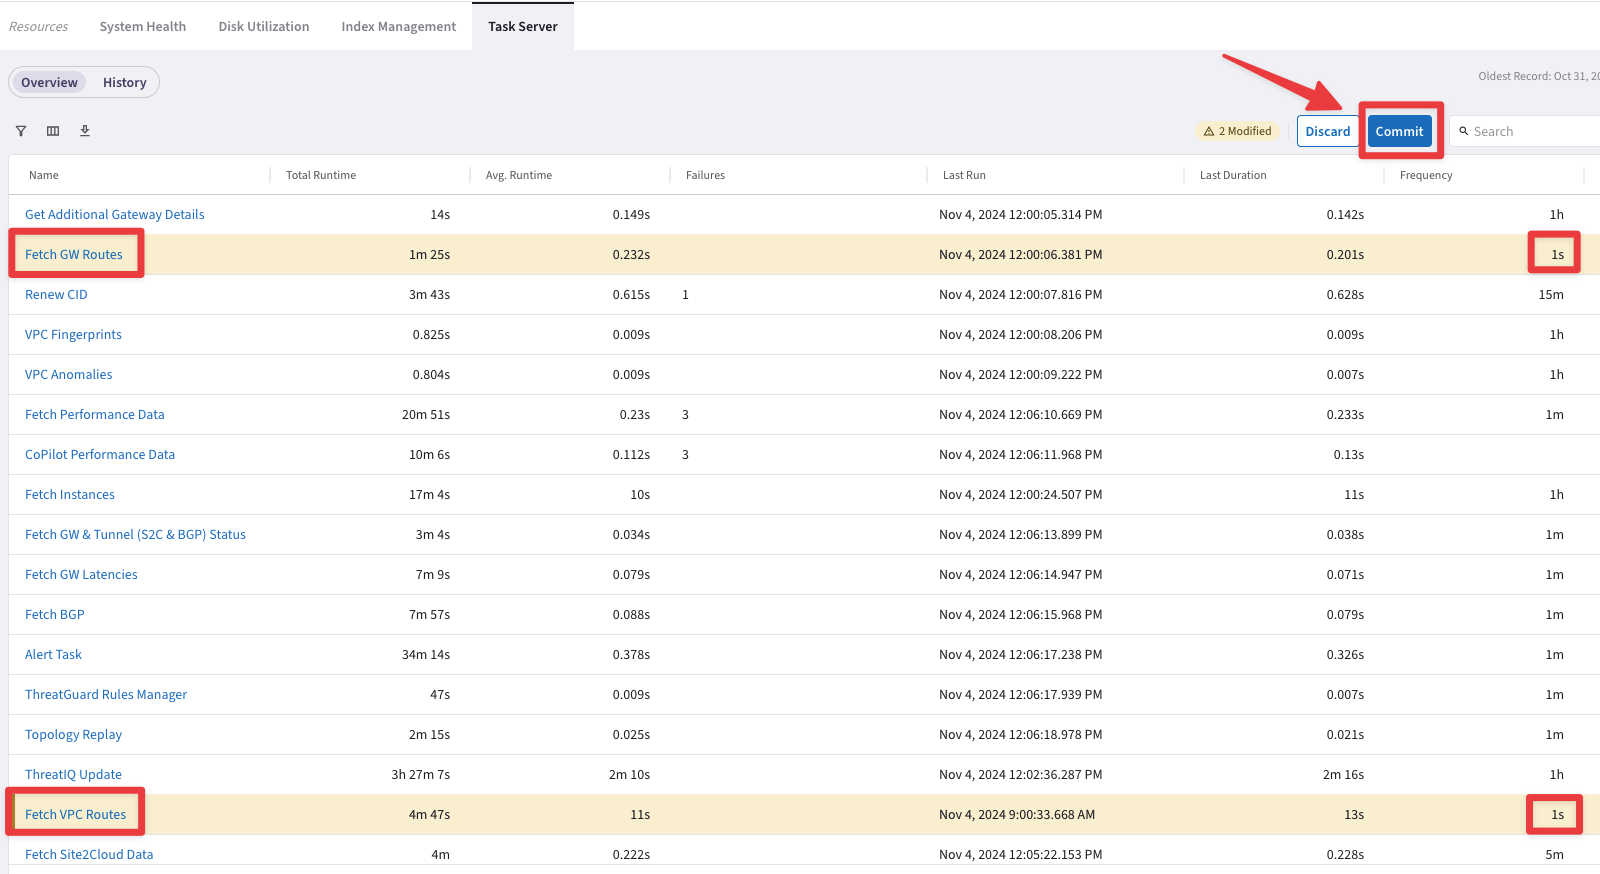
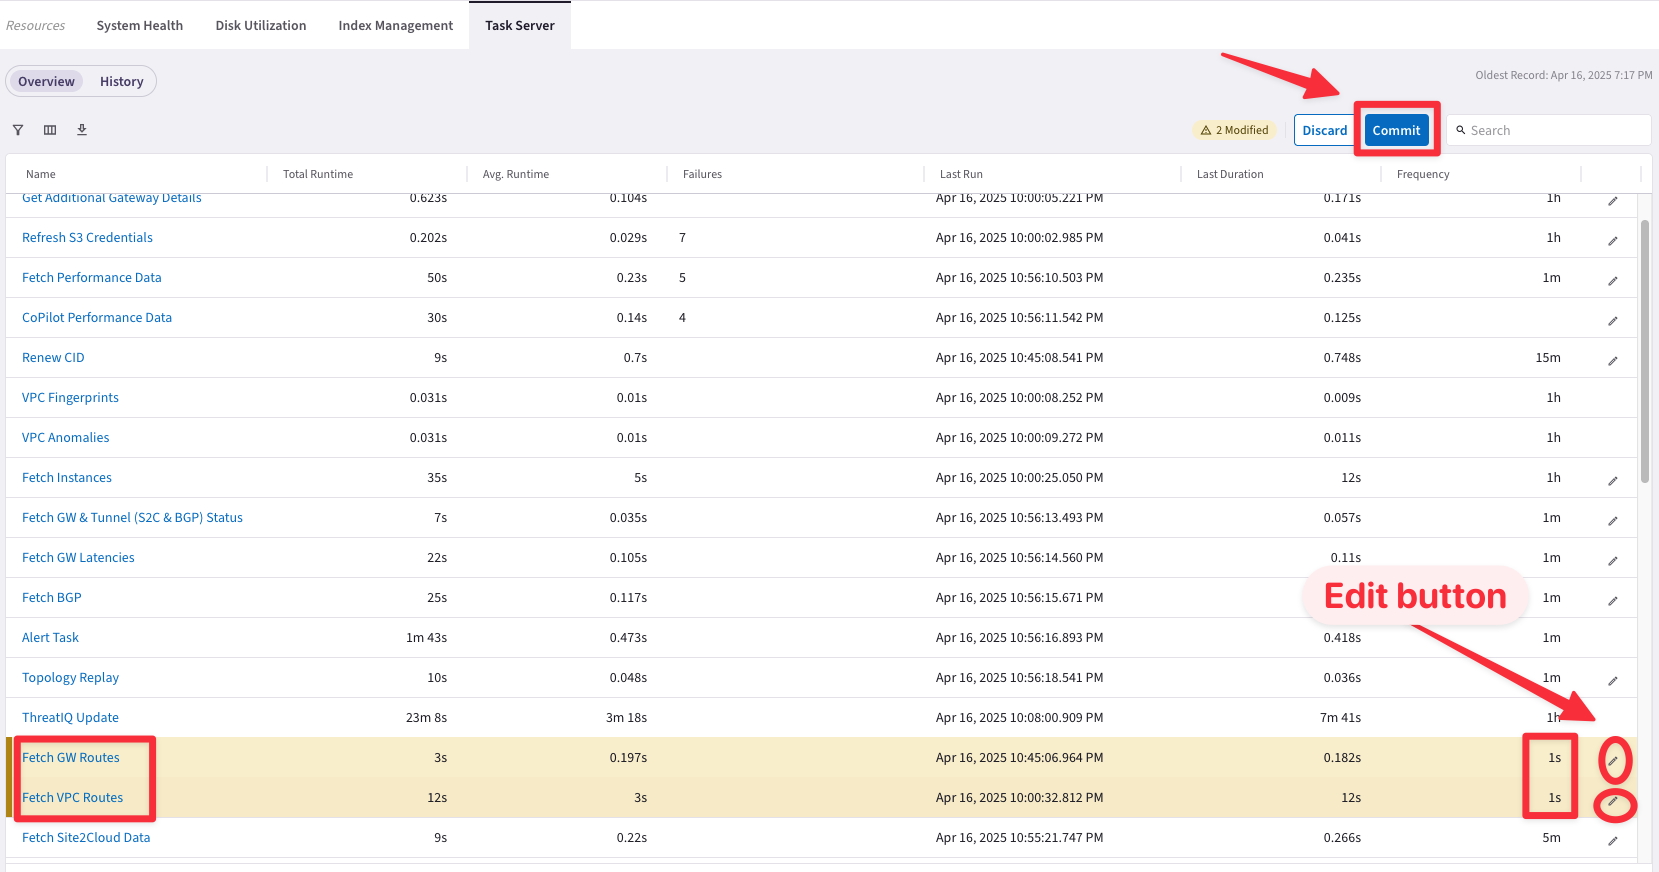
update for backbone

diff --git a/ace_backbone/docs/backbone.md b/ace_backbone/docs/backbone.md
@@ -2,28 +2,27 @@
 
 ## Scenario
 
-ABC Healthcare (a fictitious company), a leading healthcare provider, operates solely within the **Azure** cloud environment. The company decided expaning their cloud infrastructure also within AWS, however, they are facing cloud skills gap, because they do not have experties in AWS yet. Moreover, the company is heavily using the native CSP transit solutions (e.g. Azure Route Server).
+ABC Healthcare, a leading healthcare provider, operates exclusively within the **Azure** cloud environment. The company has decided to expand its cloud infrastructure to include AWS; however, it is facing a skills gap, as it lacks expertise in AWS. Additionally, ABC Healthcare heavily relies on native cloud service provider (CSP) transit solutions, such as Azure Route Server.
 
 ## Lab Objective
 
-You, the newly appointed solutions architect, have been assigned the following task:
+As the newly appointed solutions architect, you have been assigned the following tasks:
 
-- Create a **_`multicloud backbone architecture`_** that works in every cloud.
-- The solution should also provide **_`hybrid connectivity`_** towards the Data Center.
+- Design a **_`multicloud backbone architecture`_** that operates seamlessly across all cloud platforms.
+
+- Ensure the solution provides **_`hybrid connectivity`_** to the data center.
 
 ```{important}
-**Azure Route Server** does not natively sypport connectivity to other Cloud Providers.
-
-Aviatrix supports `Multicloud Transit`.
+**Azure Route Server** does not natively support connectivity to other cloud providers, whereas Aviatrix supports `Multicloud Transit`.
 ```
 
 ## Initial Set-up
 
-1- Both the `Aviatrix Controller` and the `Aviatrix CoPilot` got already deployed in AWS, inside a dedicated MGMT VPC.
+1- Both the `Aviatrix Controller` and the `Aviatrix CoPilot` have already been deployed in AWS, within a dedicated _management_ VPC.
 
-2- A pair of `Transit Gateways` got also deployed in Azure and attached to the existing **Azure Route Server**.
+2- A pair of `Transit Gateways` has also been deployed in Azure and connected to the existing **Azure Route Server**.
 
-3- An `Aviatrix Secure Edge` got already deployed inside the on-prem Data Center.
+3- An `Aviatrix Secure Edge` has already been deployed in the on-premises data center.
 
 ```{figure} images/backbone-initial-topology.png
 ---
@@ -88,13 +87,17 @@ Password:
 
 ## LAB Pre-Req
 
-Before starting building your backbone infrastructure, change the following **Fetch Timers** to their lowest value.
+Before building your backbone infrastructure, adjust the following **Fetch Timers** to their lowest values.
 
 ```{hint}
 Go to **CoPilot > Settings > Resources > Task Server**
 ```
 
-Ensure `Fetch GW Routes` and `Fetch VPC Routes` intervals are set to **“1 Second”** each and then click on **SAVE**.
+Ensure that the `Fetch GW Routes` and `Fetch VPC Routes` intervals are set to **“1 Second”** each, then click **SAVE**.
+
+```{hint}
+Click the _pencil_ icon to edit the timers."
+```
 
 ```{figure} images/backbone-tasks.png
 ---
@@ -107,12 +110,12 @@ Initial Topology
 Do not forget to click on the **COMMIT** button!
 
 ```{caution}
-These are very aggressive settings. In a Production environment, you should not set these intervals that frequently!
+These settings are quite aggressive. In a production environment, you should avoid setting these intervals so frequently!
 ```
 
 ## Task #1: Create an AWS TGW using the CoPilot
 
-The Copilot provides an `AWS TGW (Transit Gateway) Network Orchestration` service, that allows to deploy the AWS TGW, avoiding to use the AWS Console.
+The CoPilot offers an `AWS TGW (Transit Gateway) Network Orchestration` service that enables the deployment of AWS TGW without the need to use the AWS Console.
 
 ```{figure} images/backbone-tgw01.png
 ---
@@ -132,13 +135,13 @@ align: center
 AWS TGW section on the CoPilot
 ```
 
-Ensure these parameters are entered in the pop-up window `"Create AWS TGW"`.
+Make sure to enter these parameters in the pop-up window titled `"Create AWS TGW"`.
 
 - **Name:** <span style='color:#479608'>AWS-NVirginia-TGW</span>
 - **Cloud:** <span style='color:#479608'>AWS (Standard)</span>
 - **Account:** <span style='color:#479608'>aws-account </span>
 - **Region:** <span style='color:#479608'>us-east-1 (N. Virginia)</span>
-- **AWS Side SAS Number:** <span style='color:#479608'>64512</span>
+- **AWS Side SAS Number:** <span style='color:#479608'>64512 (_default value_)</span>
 
 ```{figure} images/backbone-tgw03.png
 ---
@@ -151,7 +154,7 @@ AWS TGW template
 Do not forget to click on **SAVE**.
 
 ```{caution}
-It will take roughly **2 minutes** for the Aviatrix Controller to completing the deployment of the AWS TGW.
+It will take approximately **2 minutes** for the Aviatrix Controller to complete the deployment of the AWS TGW.
 ```
 
 ```{figure} images/backbone-tgw04.png
@@ -177,7 +180,7 @@ AWS NVirginia-TGW
 Ensure these parameters are entered in the pop-up window `"Attach VPC to AWS TGW"`.
 
 - **VPC:** <span style='color:#479608'>spoke-aws</span>
-- **Network Domain:** <span style='color:#479608'>Default_Domain</span>
+- **Network Domain:** <span style='color:#479608'>Default_Domain (_default value_)</span>
 
 ```{figure} images/backbone-tgw06.png
 ---
@@ -190,12 +193,12 @@ AWS NVirginia-TGW
 Do not forget to click on **SAVE**.
 
 ```{caution}
-It will take roughly **2 minutes** for the Aviatrix Controller to completing the attachment.
+It will take roughly **2 minutes** for the Aviatrix Controller to complete the attachment.
 ```
 
 ```{figure} images/backbone-tgw07.png
 ---
-height: 350px
+height: 200px
 align: center
 ---
 Attachment
@@ -203,7 +206,7 @@ Attachment
 
 ## Task #3: Create an Aviatrix Transit VPC
 
-Let's continue building up the cloud backbone, now you are asked to create a `Transit VPC`.
+Let’s continue strengthening the cloud backbone. You are now tasked with creating a `Transit VPC`.
 
 ```{figure} images/backbone-tgw08.png
 ---
@@ -213,7 +216,7 @@ align: center
 Initial Topology for Task#3
 ```
 
-Go to **CoPilot > Cloud Resources > Cloud Assets > VPC/VNets & Subnets** and click on the `"+ VPC/VNet"` button.
+- Go to **CoPilot > Cloud Resources > Cloud Assets > VPC/VNets & Subnets** and click on the `"+ VPC/VNet"` button.
 
 ```{figure} images/backbone-tgw09.png
 ---
@@ -222,7 +225,7 @@ align: center
 Transit VPC
 ```
 
-Ensure these parameters are entered in the pop-up window `"Create VPC/VNet"`.
+Please make sure to enter these parameters in the `"Create VPC/VNet"`.
 
 - **Name:** <span style='color:#479608'>transit-aws</span>
 - **Cloud:** <span style='color:#479608'>AWS (Standard)</span>
@@ -239,7 +242,7 @@ VPC Template
 ```
 
 ```{note}
-Wait few minutes for the completion of the task. Check the hourglass icon on the right-hand side of your Copilot.
+Wait few minutes for the completion of the task. Check the _hourglass_ icon on the right-hand side of your Copilot.
 ```
 
 ## Task #4: Create both the Transit Gateways and the peering
